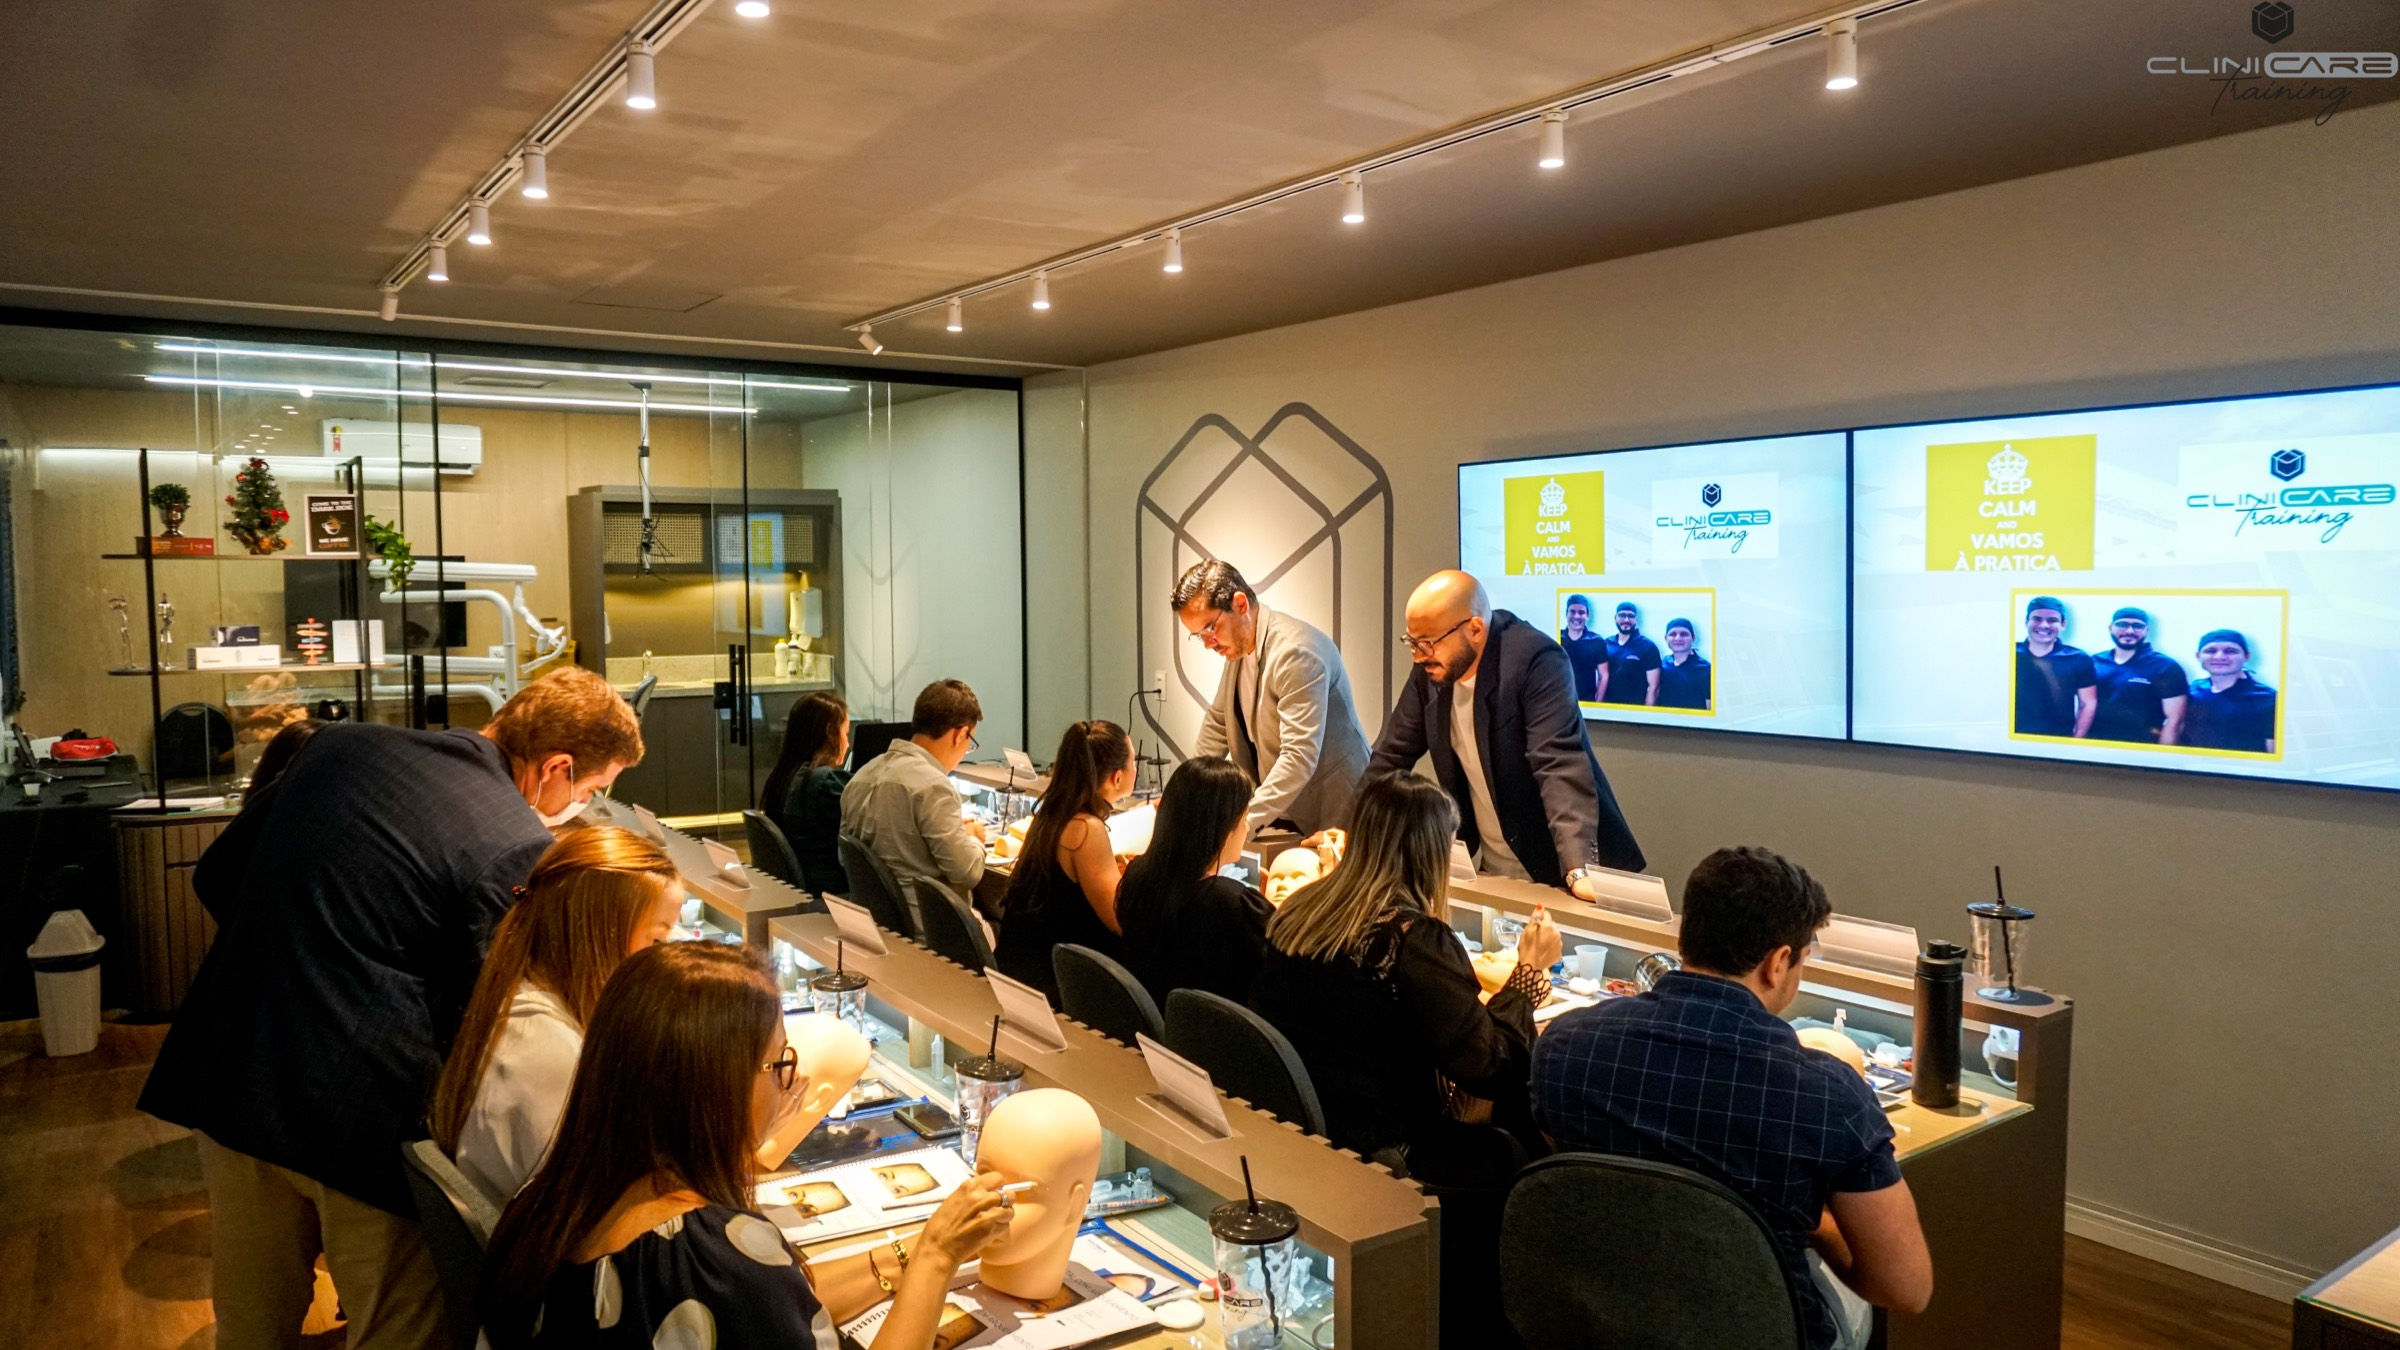
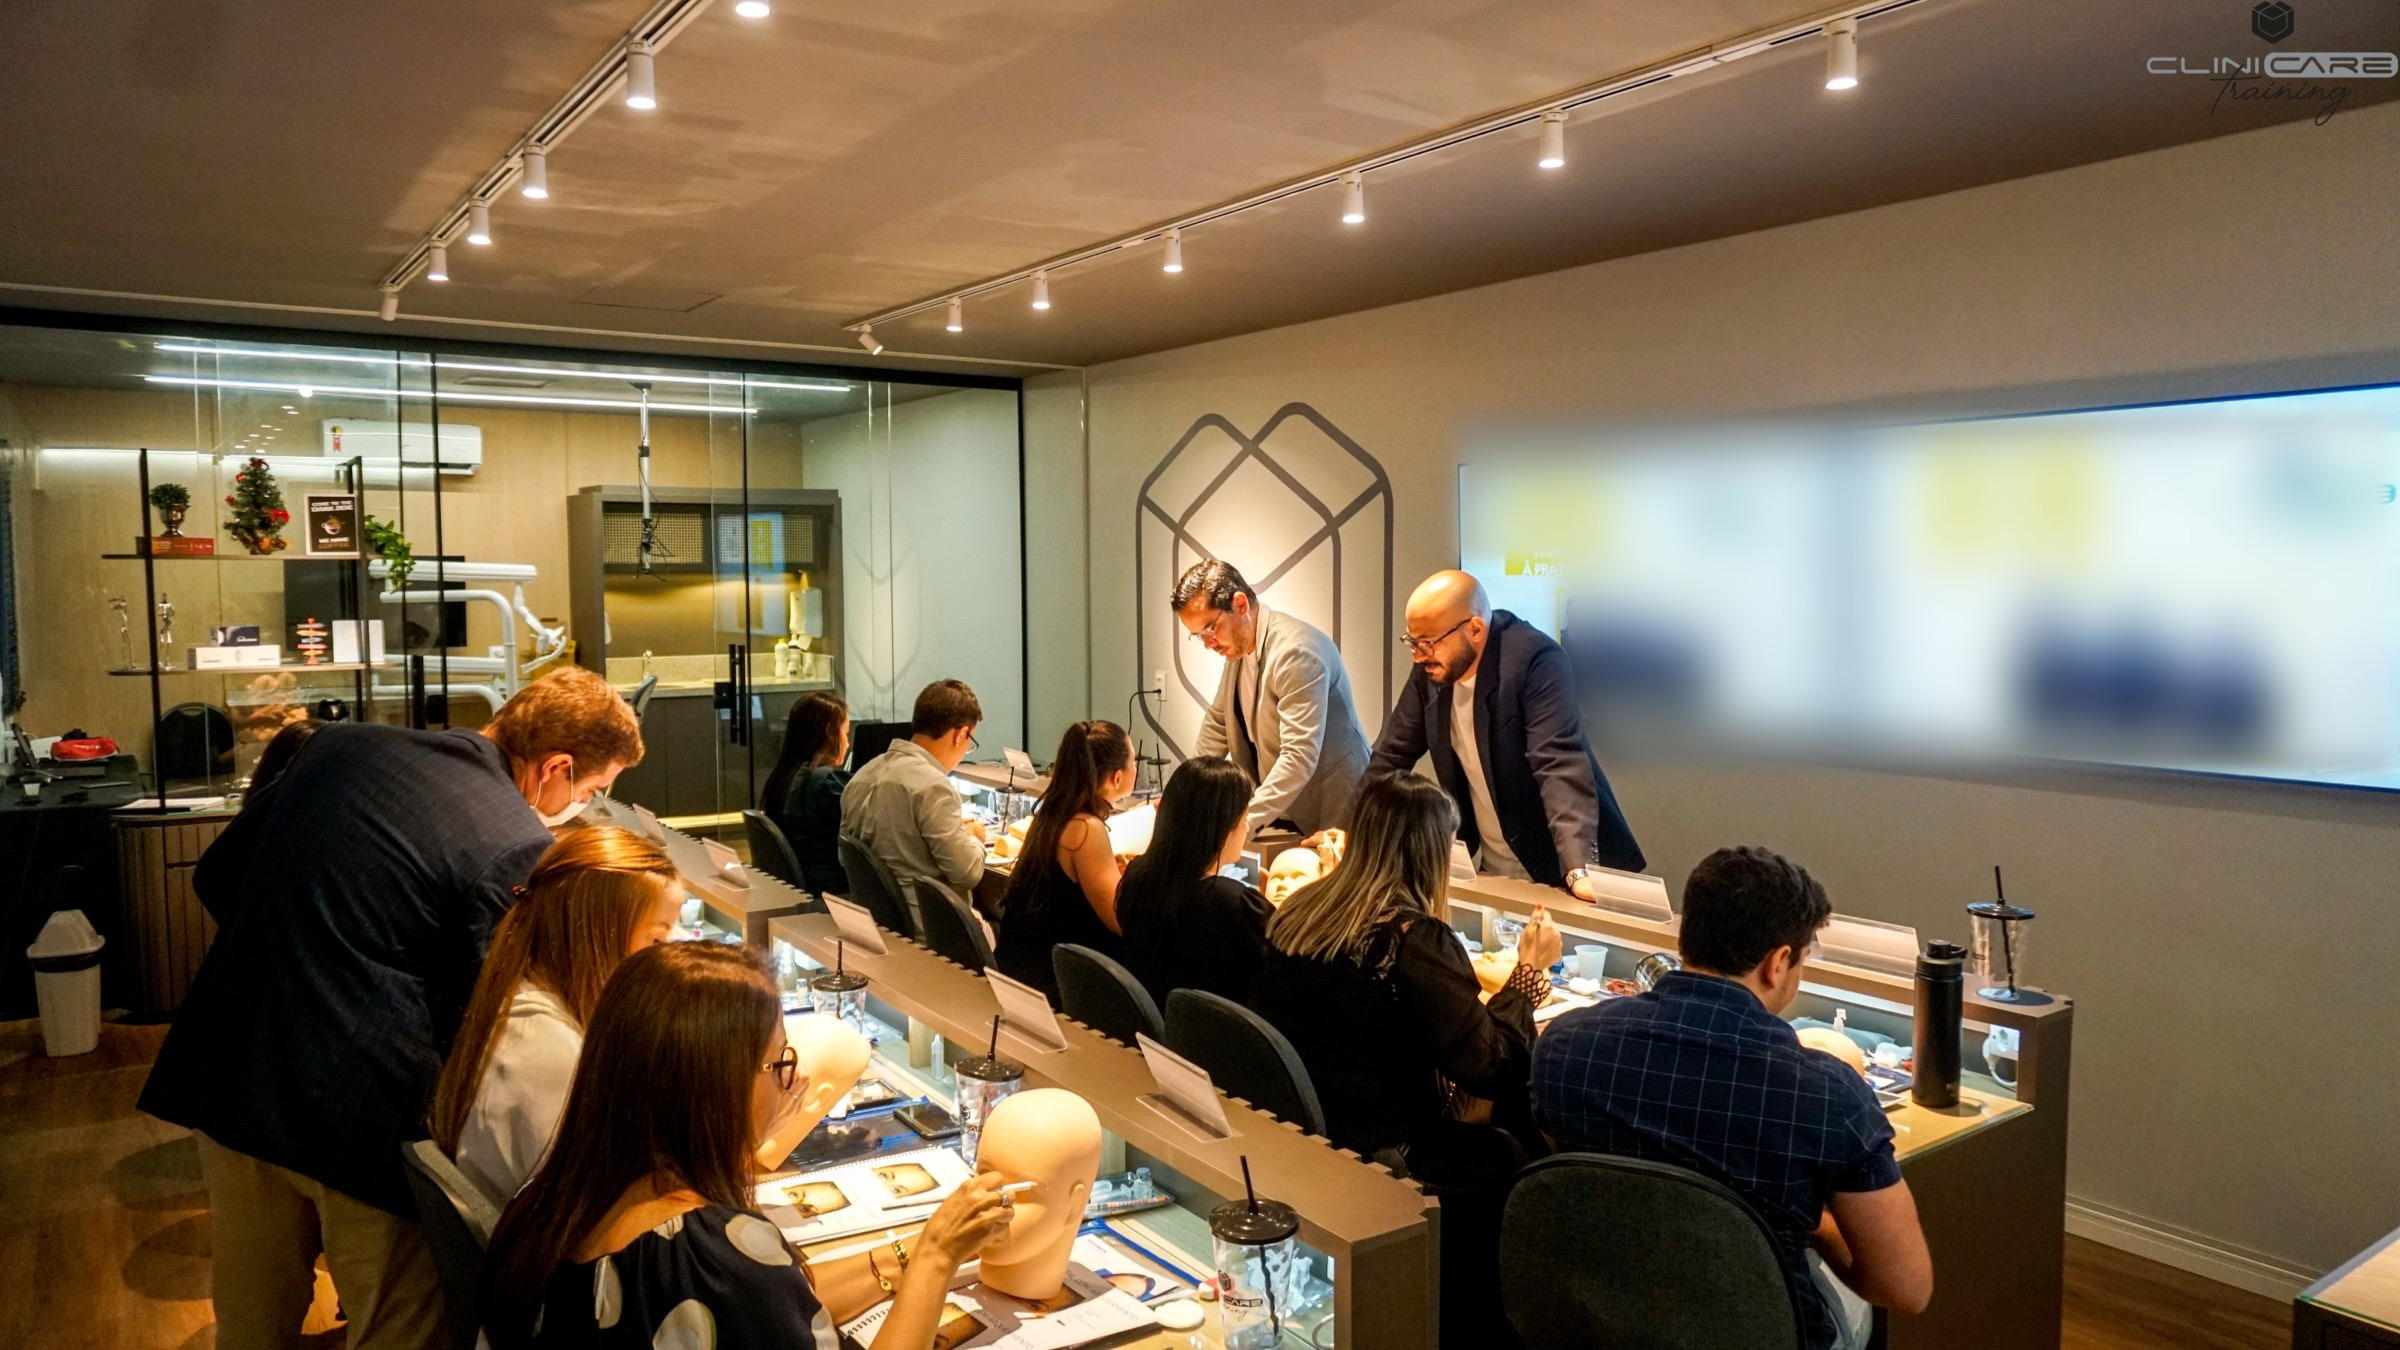
feat: 3 depoimentos novos, Meta Pixel, hero com TVs ofuscadas e ajustes de copy
- Depoimentos: Ana Lara, Sarah e Luciane (vídeos comprimidos + capas), legendas por instituição (Clinicare/UNIFOR)
- Meta Pixel 294394365539566: PageView, AbriuFormulario (abertura do form) e Lead (envio com sucesso)
- Hero: telas das TVs ao fundo ofuscadas (conteúdo de marca ilegível), professor preservado
- Copy: prática clínica a partir do 1º módulo (Clinicare) vs 3º módulo (UNIFOR)
- Logo ANBRO e favicon (icon.png)

Changed region(s): [[0.5938, 0.28, 1.0, 0.5911]]

diff --git a/src/components/meta-pixel.tsx b/src/components/meta-pixel.tsx
@@ -1,0 +1,32 @@
+import Script from "next/script";
+import { FB_PIXEL_ID } from "@/lib/fpixel";
+
+/** Pixel base do Meta + PageView automático no carregamento. */
+export function MetaPixel() {
+  return (
+    <>
+      <Script id="meta-pixel" strategy="afterInteractive">
+        {`!function(f,b,e,v,n,t,s)
+{if(f.fbq)return;n=f.fbq=function(){n.callMethod?
+n.callMethod.apply(n,arguments):n.queue.push(arguments)};
+if(!f._fbq)f._fbq=n;n.push=n;n.loaded=!0;n.version='2.0';
+n.queue=[];t=b.createElement(e);t.async=!0;
+t.src=v;s=b.getElementsByTagName(e)[0];
+s.parentNode.insertBefore(t,s)}(window, document,'script',
+'https://connect.facebook.net/en_US/fbevents.js');
+fbq('init', '${FB_PIXEL_ID}');
+fbq('track', 'PageView');`}
+      </Script>
+      <noscript>
+        {/* eslint-disable-next-line @next/next/no-img-element */}
+        <img
+          height="1"
+          width="1"
+          style={{ display: "none" }}
+          src={`https://www.facebook.com/tr?id=${FB_PIXEL_ID}&ev=PageView&noscript=1`}
+          alt=""
+        />
+      </noscript>
+    </>
+  );
+}

diff --git a/src/app/page.tsx b/src/app/page.tsx
@@ -37,7 +37,7 @@ export default function Home() {
         <Section
           eyebrow="Cursos disponíveis"
           title="Duas trilhas, uma só excelência"
-          intro="Especialização longa pela UNIFOR ou aperfeiçoamento intensivo pela Clinicare Training. Escolha o caminho mais alinhado ao seu momento."
+          intro="Você escolhe entre UNIFOR e Clinicare — especialização longa pela Universidade ou aperfeiçoamento intensivo pela Clinicare Training. Na Clinicare, você atende pacientes já a partir do 1º módulo; na UNIFOR, a prática clínica começa a partir do 3º módulo."
           id="cursos"
         >
           <CourseCarousel autoplayMs={7000} />
@@ -71,10 +71,9 @@ export default function Home() {
 function Header() {
   return (
     <header className="sticky top-0 z-40 bg-white/85 backdrop-blur-md border-b border-foreground/5">
-      <div className="max-w-6xl mx-auto px-6 h-16 flex items-center justify-between">
-        <a href="#" className="flex items-baseline gap-2">
-          <span className="text-xl font-display text-brand-blue tracking-tight">ANBRO</span>
-          <span className="text-[10px] tracking-[0.24em] uppercase text-muted">Cursos</span>
+      <div className="max-w-6xl mx-auto px-6 h-20 flex items-center justify-between">
+        <a href="#" className="flex items-center">
+          <Image src="/logo-anbro.png" alt="ANBRO — Harmonização Orofacial" width={1500} height={540} priority className="h-12 lg:h-14 w-auto" />
         </a>
         <nav className="hidden md:flex items-center gap-8 text-sm text-foreground/70">
           <a href="#cursos" className="hover:text-brand-blue transition-colors">Cursos</a>
@@ -142,7 +141,7 @@ function Hero() {
           <div className="mt-14 grid grid-cols-2 sm:grid-cols-4 gap-6 max-w-2xl fade-up delay-300">
             <Stat value="+13" label="anos de experiência" />
             <Stat value="+25" label="turmas formadas" />
-            <Stat value="2" label="chancelas (UNIFOR + Clinicare)" />
+            <Stat value="2" label="chancelas - UNIFOR/Clinicare" />
             <Stat value="100%" label="base científica" />
           </div>
         </div>
@@ -186,7 +185,7 @@ function Section({
     <section id={id} className={`${bg} py-24 lg:py-32`}>
       <div className="max-w-6xl mx-auto px-6">
         <div className="max-w-3xl mb-12 lg:mb-16">
-          <p className="text-xs tracking-[0.22em] uppercase text-brand-blue">{eyebrow}</p>
+          <p className="text-sm tracking-[0.24em] uppercase font-semibold text-brand-blue">{eyebrow}</p>
           <h2 className="mt-3 text-3xl lg:text-5xl leading-tight">{title}</h2>
           {intro && <p className="mt-5 text-muted text-lg leading-relaxed">{intro}</p>}
         </div>
@@ -202,7 +201,7 @@ function Testimonials() {
     <section id="depoimentos" className="bg-brand-blue text-white py-24 lg:py-32">
       <div className="max-w-6xl mx-auto px-6">
         <div className="max-w-3xl mb-12">
-          <p className="text-xs tracking-[0.22em] uppercase text-brand-lime">Depoimentos</p>
+          <p className="text-sm tracking-[0.24em] uppercase font-semibold text-brand-lime">Depoimentos</p>
           <h2 className="mt-3 text-3xl lg:text-5xl text-white leading-tight">
             Quem passou pela ANBRO, fala por nós.
           </h2>
@@ -223,7 +222,7 @@ function Testimonials() {
               </div>
               <figcaption className="px-5 py-4">
                 <p className="text-white">{t.name}</p>
-                <p className="text-xs text-white/60 mt-0.5">Aluno(a) ANBRO</p>
+                <p className="text-xs text-white/60 mt-0.5">{t.org}</p>
               </figcaption>
             </figure>
           ))}
@@ -240,7 +239,7 @@ function MoreInfo() {
     <Section
       eyebrow="Mais informações"
       title="O que você vai aprender no HOF Custom Training"
-      intro="Cinco módulos teórico-laboratoriais com clínica integrada — em todos eles você atende pacientes reais, do primeiro ao último encontro."
+      intro="Cinco módulos com clínica integrada — você atende pacientes em todos eles. A partir do segundo módulo, cada encontro soma novos procedimentos ao que já vinha sendo praticado; ao final, você atende em todas as frentes da grade."
       variant="muted"
       id="programa"
     >
@@ -269,6 +268,14 @@ function MoreInfo() {
                 </li>
               ))}
             </ul>
+            {m.practice && (
+              <div className="mt-5 flex flex-wrap items-baseline gap-2 text-sm border-t border-brand-blue/10 pt-4">
+                <span className="text-[10px] tracking-[0.18em] uppercase text-brand-blue font-medium">
+                  Atendimento clínico no mês:
+                </span>
+                <span className="text-foreground/85">{m.practice}</span>
+              </div>
+            )}
           </li>
         ))}
       </ol>

diff --git a/src/lib/data.ts b/src/lib/data.ts
@@ -10,7 +10,7 @@ export type Course = {
   format: string;
   startDate: string;
   highlights: string[];
-  modules?: { title: string; topics: string[]; date?: string }[];
+  modules?: { title: string; topics: string[]; date?: string; practice?: string }[];
   ctaLabel: string;
   bgImage: string;
 };
@@ -26,8 +26,8 @@ export const courses: Course[] = [
     format: "Presencial · clínica integrada — Fortaleza/CE",
     startDate: "Julho 2026 · T8",
     highlights: [
-      "Atendimento clínico a partir do 1º módulo",
-      "Prática em pacientes reais em todos os módulos",
+      "Prática clínica a partir do 1º módulo",
+      "Atendimento em pacientes reais em todos os módulos",
       "Clínica integrada — atendimento dentro da Clinicare",
       "Certificado chancelado pela Clinicare",
     ],
@@ -36,26 +36,31 @@ export const courses: Course[] = [
         title: "Módulo 1 — Toxina Botulínica & Anatomia",
         date: "09–10 jul",
         topics: ["Análise facial", "Anatomia cervicofacial", "Fotografia HOF", "Toxina botulínica: protocolos individualizados"],
+        practice: "Toxina Botulínica",
       },
       {
         title: "Módulo 2 — Preenchedores de Ácido Hialurônico",
         date: "29–30 ago",
-        topics: ["Reologia", "Malar, lábios, sulco nasolabial e mento", "Estratégias de precificação", "Prática em pacientes"],
+        topics: ["Reologia", "Malar, lábios, sulco nasolabial e mento", "Estratégias de precificação"],
+        practice: "Toxina + Preenchimento",
       },
       {
         title: "Módulo 3 — Skin & Intradermoterapia",
         date: "26–27 set",
         topics: ["Gerenciamento de pele", "Skinbooster", "Microagulhamento", "Intradermoterapia"],
+        practice: "Toxina + Preenchimento + Skinbooster + Intradermoterapia",
       },
       {
         title: "Módulo 4 — Bioestimuladores & Fios PDO",
         date: "24–25 out",
-        topics: ["Hidroxiapatita de cálcio", "PLLA", "Fios de PDO lisos", "Prática supervisionada"],
+        topics: ["Hidroxiapatita de cálcio", "PLLA", "Fios de PDO lisos"],
+        practice: "Toxina + Preenchimento + Skinbooster + Intradermoterapia + Bioestimuladores + Fios PDO",
       },
       {
         title: "Módulo 5 — Tecnologia em HOF",
         date: "28–29 nov",
         topics: ["Ultrassom macro e microfocado (MPT)", "Laser não ablativo", "Manejo de intercorrências"],
+        practice: "Todos os procedimentos da grade — ao longo dos 5 meses você atende em todas as frentes",
       },
     ],
     ctaLabel: "Quero me inscrever — Clinicare",
@@ -67,13 +72,14 @@ export const courses: Course[] = [
     title: "Especialização em Harmonização Orofacial",
     institution: "Anbro × Universidade de Fortaleza (UNIFOR)",
     duration: "20 meses",
+    workload: "600h de carga horária",
     format: "Presencial — Fortaleza/CE",
     startDate: "Agosto 2026 · T3",
     highlights: [
+      "Prática clínica a partir do 3º módulo",
       "Certificado chancelado pela UNIFOR",
       "Professores mestres, doutores e pesquisadores",
       "Programa completo de especialização",
-      "Base científica, sem fórmulas prontas",
     ],
     ctaLabel: "Quero me inscrever — UNIFOR",
     bgImage: "/cursos/unifor-procedure.jpg",
@@ -119,9 +125,12 @@ export const teachers = [
 ] as const;
 
 export const testimonials = [
-  { name: "Felipe", video: "/depoimentos/felipe.mp4", poster: "/depoimentos/felipe.jpg" },
-  { name: "Renata", video: "/depoimentos/renata.mp4", poster: "/depoimentos/renata.jpg" },
-  { name: "Catarina", video: "/depoimentos/catarina.mp4", poster: "/depoimentos/catarina.jpg" },
+  { name: "Felipe", org: "Aluno(a) Clinicare", video: "/depoimentos/felipe.mp4", poster: "/depoimentos/felipe.jpg" },
+  { name: "Renata", org: "Aluno(a) Clinicare", video: "/depoimentos/renata.mp4", poster: "/depoimentos/renata.jpg" },
+  { name: "Catarina", org: "Aluno(a) Clinicare", video: "/depoimentos/catarina.mp4", poster: "/depoimentos/catarina.jpg" },
+  { name: "Ana Lara", org: "Aluno(a) UNIFOR", video: "/depoimentos/ana-lara.mp4", poster: "/depoimentos/ana-lara.jpg" },
+  { name: "Sarah", org: "Aluno(a) UNIFOR", video: "/depoimentos/sara.mp4", poster: "/depoimentos/sara.jpg" },
+  { name: "Luciane", org: "Aluno(a) UNIFOR", video: "/depoimentos/luciane.mp4", poster: "/depoimentos/luciane.jpg" },
 ];
 
 export const brand = {

diff --git a/src/components/enroll-dialog.tsx b/src/components/enroll-dialog.tsx
@@ -3,6 +3,7 @@
 import { useActionState, useEffect, useRef, useState } from "react";
 import type { CourseId } from "@/lib/data";
 import { submitEnrollment, type EnrollState } from "@/app/actions";
+import { track, trackCustom } from "@/lib/fpixel";
 
 const initialState: EnrollState = { status: "idle" };
 
@@ -17,20 +18,30 @@ export function EnrollDialog({ open, onClose, course, courseTitle }: Props) {
   const dialogRef = useRef<HTMLDialogElement>(null);
   const [state, formAction, pending] = useActionState(submitEnrollment, initialState);
   const [formed, setFormed] = useState<"sim" | "nao" | "">("");
+  const leadFired = useRef(false);
 
   useEffect(() => {
     const d = dialogRef.current;
     if (!d) return;
-    if (open && !d.open) d.showModal();
+    if (open && !d.open) {
+      d.showModal();
+      trackCustom("AbriuFormulario", { course, course_title: courseTitle });
+    }
     if (!open && d.open) d.close();
-  }, [open]);
+  }, [open, course, courseTitle]);
 
   useEffect(() => {
     if (state.status === "success") {
+      if (!leadFired.current) {
+        track("Lead", { content_name: courseTitle, course });
+        leadFired.current = true;
+      }
       const t = setTimeout(() => onClose(), 3500);
       return () => clearTimeout(t);
+    } else {
+      leadFired.current = false;
     }
-  }, [state.status, onClose]);
+  }, [state.status, onClose, course, courseTitle]);
 
   return (
     <dialog

diff --git a/src/lib/fpixel.ts b/src/lib/fpixel.ts
@@ -1,0 +1,17 @@
+export const FB_PIXEL_ID = "294394365539566";
+
+declare global {
+  interface Window {
+    fbq?: (...args: unknown[]) => void;
+  }
+}
+
+/** Evento padrão do Meta (ex: "Lead", "PageView"). */
+export function track(event: string, params?: Record<string, unknown>) {
+  if (typeof window !== "undefined") window.fbq?.("track", event, params);
+}
+
+/** Evento personalizado do Meta (ex: "AbriuFormulario"). */
+export function trackCustom(event: string, params?: Record<string, unknown>) {
+  if (typeof window !== "undefined") window.fbq?.("trackCustom", event, params);
+}

diff --git a/src/app/layout.tsx b/src/app/layout.tsx
@@ -1,6 +1,7 @@
 import type { Metadata } from "next";
 import { Barlow, Inter } from "next/font/google";
 import "./globals.css";
+import { MetaPixel } from "@/components/meta-pixel";
 
 const barlow = Barlow({
   subsets: ["latin"],
@@ -39,7 +40,10 @@ export const metadata: Metadata = {
 export default function RootLayout({ children }: { children: React.ReactNode }) {
   return (
     <html lang="pt-BR" className={`${barlow.variable} ${inter.variable}`}>
-      <body className="min-h-screen flex flex-col">{children}</body>
+      <body className="min-h-screen flex flex-col">
+        <MetaPixel />
+        {children}
+      </body>
     </html>
   );
 }